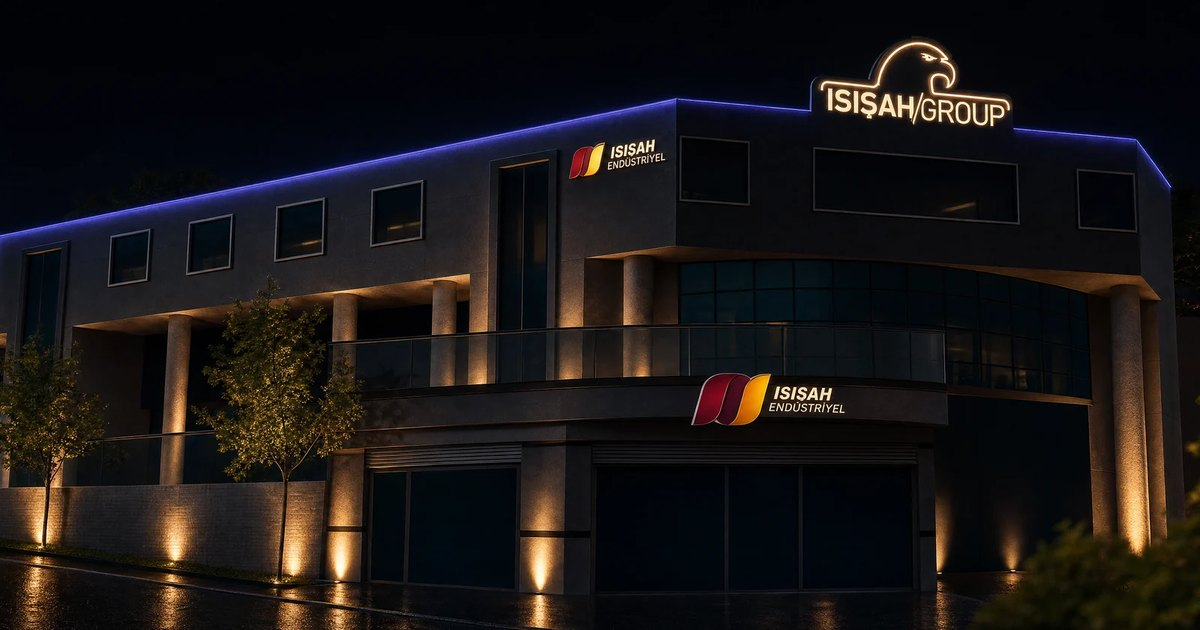
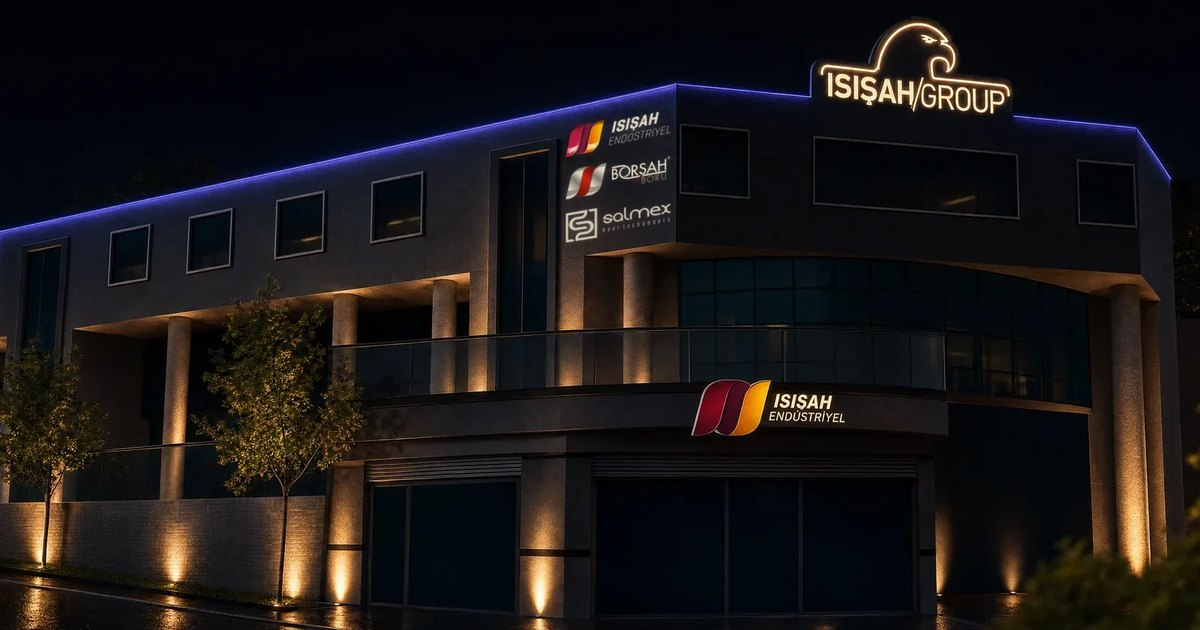
Hero fotosu: kule tabelası yerine ISIŞAH / BORŞAH / SALMEX logoları (bina-gece-3marka.webp), og-cover yenilendi
- assets/img/bina-gece-3marka.webp: gerçek logo dosyaları duvar düzlemine homografiyle bindirildi, eski tabela doku klonuyla kapatıldı (AI metin üretimi yok)
- index hero + hakkimizda foto paneli yeni görsele geçti; orijinal bina-gece.webp korunuyor
- og-cover.jpg yeni fotodan 1200x630

diff --git a/hakkimizda.html b/hakkimizda.html
@@ -487,7 +487,7 @@
       <h1>Hakkımızda.</h1>
       <p class="lead">Bursa DOSAB'da sanayi tipi rezistanstan paslanmaz çelik boruya ve ısı eşanjörlerine uzanan üç marka, tek çatı: 44 yıllık mühendislik birikimi.</p>
     </div>
-    <div class="hero-visual reveal in" data-d="2"><img src="assets/img/bina-gece.webp" alt="ISIŞAH GROUP merkez binası — DOSAB Bursa" width="1600" height="905" fetchpriority="high"><span class="tag">ISIŞAH GROUP · DOSAB Bursa</span></div>
+    <div class="hero-visual reveal in" data-d="2"><img src="assets/img/bina-gece-3marka.webp" alt="ISIŞAH GROUP merkez binası — üç marka, DOSAB Bursa" width="1600" height="905" fetchpriority="high"><span class="tag">ISIŞAH GROUP · DOSAB Bursa</span></div>
   </div>
 </section>
 

diff --git a/index.html b/index.html
@@ -474,7 +474,7 @@
       <div class="bchips" aria-label="Grup markaları"><span>Markalar</span><b data-b="isisah">ISIŞAH</b><b data-b="borsah">BORŞAH</b><b data-b="salmex">SALMEX</b></div>
     </div>
     <div class="hero-visual reveal in" data-d="2">
-      <img src="assets/img/bina-gece.webp" alt="ISIŞAH GROUP merkez binası" fetchpriority="high" width="1600" height="905">
+      <img src="assets/img/bina-gece-3marka.webp" alt="ISIŞAH GROUP merkez binası — ISIŞAH ENDÜSTRİYEL, BORŞAH BORU ve SALMEX aynı çatı altında" fetchpriority="high" width="1600" height="905">
     </div>
   </div>
 </section>

diff --git a/tools/build-pages.py b/tools/build-pages.py
@@ -257,7 +257,7 @@ hak_ld = '{"@context":"https://schema.org","@type":"AboutPage","name":"Hakkımı
     'ISIŞAH GROUP · 1982\'den bugüne', 'Hakkımızda.',
     'Bursa DOSAB\'da sanayi tipi rezistanstan paslanmaz çelik boruya ve ısı eşanjörlerine uzanan üç marka, tek çatı: 44 yıllık mühendislik birikimi.',
     hak_body, hak_ld,
-    '<img src="assets/img/bina-gece.webp" alt="ISIŞAH GROUP merkez binası — DOSAB Bursa" width="1600" height="905" fetchpriority="high"><span class="tag">ISIŞAH GROUP · DOSAB Bursa</span>'), encoding='utf-8')
+    '<img src="assets/img/bina-gece-3marka.webp" alt="ISIŞAH GROUP merkez binası — üç marka, DOSAB Bursa" width="1600" height="905" fetchpriority="high"><span class="tag">ISIŞAH GROUP · DOSAB Bursa</span>'), encoding='utf-8')
 
 # ---------------- VİZYON & MİSYON ----------------
 viz_body = '''

diff --git a/HANDOFF.md b/HANDOFF.md
@@ -121,3 +121,4 @@ Bursa/DOSAB merkezli **ISIŞAH GROUP** (1982; markalar: **ISIŞAH Endüstriyel**
 El yazısı 2 sayfa (IMG_9890/9891.HEIC, Downloads) → 17 madde uygulandı: hero başlığı "Isının gücü, teknolojinin hassasiyeti." (alternatifler chat'te), lead'e doğalgaz; hero fotoda alt alta ISIŞAH/BORŞAH/SALMEX (.bstack); stats → 44 yıl / 3 marka / 8 gam / %100 yerli (defrost payı + test gerilimi + ürün sayısı GİTTİ); Kurumsal → "Hakkımızda." + Vizyon/Misyon (WP birebir) + fabrika-genel.webp (GEÇİCİ — patron GİRİŞ FOTOSU istiyor, gelince değiştir); Borşah Ø6–42 mm / et 0,35–2 mm / tavlı+kangal (index+urunler); "spiral eşanjör" → "sarmal eşanjör boruları" (index/urunler/fabrika cap 04); rezistans °C değerleri → "yüksek sıcaklığa dayanıklı"; 2500 V her yerden kalktı; testler: şok+vibrasyon, fan gürültü (desibel); Havalimanı Treni satırı (yıl "—", detay bekliyor); tren max-width 540→440; nav'dan BOYKUR+Demiryolu çıktı, Haberler girdi (#haberler, 3 gerçek gelişme — metin onayı bekliyor); urunler ISISAH_CATS'e 8. gam `isisah_rezistans` (9 ürün, ilk sırada). **fabrika-scrub.mp4 1247 kareye kırpıldı** (son 2 karede eski çalışan — scroll sonunda son kare ekranda kaldığı için görünüyordu; ?v=2 cache-buster). Eski değerlerin (Ø4–25, Ø6–16, 2500V, %90) kalıntısı 0. DERS: HEIC her zaman ürün değil — önce bak. Deploy sonrası pear-dna'yı bu branch üstüne rebase et.
 **Marka-öncelikli akış (7 Eyl, aynı branch):** Bölüm sırası hero → #markalar → #urunler → #showroom → stats → kurumsal → … Marka kartları (`.brandcard`, role=button) tıklanınca `html[data-marka]` set edilir; #urunler kartları (`.card[data-b]`) ve vitrin (`.vcard`, href'teki `#hol=` ile marka türetilir) `.off` ile süzülür, `#urH/#urP` başlığı markaya döner, `.bfilter` sekmeleri (Tümü/ISIŞAH/BORŞAH/SALMEX) senkron, hash `#marka=<b>` derin bağlantı (yüklemede + hashchange). Hero `.bstack b` de aynı seçimi yapar. Ürünler'e 3 SALMEX kartı eklendi (`.card.cut` — şeffaf webp için contain+radyal zemin; metinler urunler.html SALMEX_LIST'ten). Yeni kart eklerken `data-b` şart.
 **Kurumsal alt sayfalar (7 Eyl):** `hakkimizda.html` + `vizyon-misyon.html` — `tools/build-pages.py` ÜRETİR (index'in <style>/header/footer'ını alır, `#x` linkleri `index.html#x` yapar, içerik scriptin içinde). Elle düzenleme; metin değişince scripti düzenle + çalıştır. Metinler eski WP sitesinden (/hakkimizda/, /vizyon-misyon/, /yonetim/, /inovasyon/, /kalite-*) — ŞAHTERM çıkarıldı, "31 yıl"→"44 yıl", yazım düzeltildi; belge yılları WP listesinden (TSE 1988, VDE 1997, ISO 9001 2004, UL 2010). Eski ISO 9001:2008 sertifika taramaları BİLEREK konmadı (site 9001:2015 diyor). Deploy: kök `/hakkimizda.html` `/vizyon-misyon.html` (index gibi yol çevirisiyle) + showroom/ ham kopya; sitemap'te kök URL'ler; duman testinde 200+yol kontrolü. Eski WP sayfaları (`/hakkimizda/` dizin URL'si) hâlâ canlı — WP'ye dokunulmaz kuralı gereği kaldırılmadı; ileride 301 için kullanıcı kararı.
+**Hero fotosu 3 marka (7 Eyl):** `assets/img/bina-gece-3marka.webp` — bina-gece.webp'in kule tabelası yerine ISIŞAH/BORŞAH/SALMEX logoları (gerçek logo dosyaları, PIL homografi; AI ile metin YAZDIRILMADI — Ş tuzağı). Üretim betiği scratchpad'de kaldı (compose.py; quad'lar HANDOFF'a değil commit mesajına yazıldı) — yeniden gerekirse: logolar 140x40, sol kenar x=754, quad TL/TR/BR/BL ISIŞAH (754,200.7)(894,170.3)(894,211.3)(754,239.6), BORŞAH (754,257.7)(894,230.3)(894,271.4)(754,296.6), SALMEX (754,314.6)(894,290.4)(894,331.5)(754,353.6). Orijinal bina-gece.webp repoda duruyor. og-cover.jpg yeni fotodan yenilendi. Hero'daki yazı dizisi (.bstack) kaldırıldı, marka çipleri (.bchips) CTA altında.
